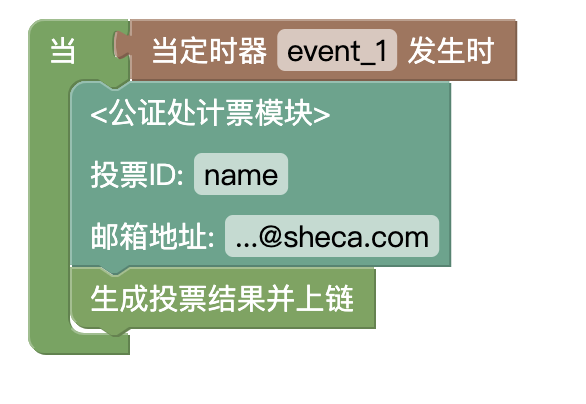
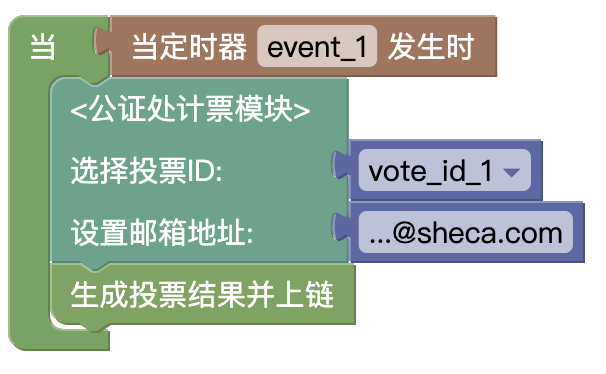
finish

diff --git a/brockly/web/res/invoke.js b/brockly/web/res/invoke.js
@@ -161,12 +161,10 @@ Blockly.Blocks['cal_ticket'] = {
     init: function () {
         this.appendDummyInput()
             .appendField("<公证处计票模块>")
-        this.appendDummyInput()
-            .appendField("投票ID:")
-            .appendField(new Blockly.FieldTextInput('name'), 'vote_participant');
-        this.appendDummyInput()
-            .appendField("邮箱地址:")
-            .appendField(new Blockly.FieldTextInput('...@sheca.com'), 'vote_title');
+        this.appendValueInput("vote_id:")
+            .appendField("选择投票ID: ");
+        this.appendValueInput("email")
+            .appendField('设置邮箱地址:');
         this.setInputsInline(false);
         this.setPreviousStatement(true, null);
         this.setNextStatement(true, null);
@@ -176,6 +174,27 @@ Blockly.Blocks['cal_ticket'] = {
 };
 
 Blockly.JavaScript['cal_ticket'] = function (block) {
+    var code = `//todo`;
+    return code;
+};
+
+Blockly.Blocks['choose_vote_id'] = {
+    init: function () {
+        this.appendDummyInput()
+            .appendField(
+                new Blockly.FieldDropdown([
+                    ['vote_id_1', 'id1'],
+                    ['vote_id_2', 'id2']]),
+                'participant'
+            );
+        this.setOutput(true)
+        // this.setPreviousStatement(true, null);
+        // this.setNextStatement(true, null);
+        this.setColour(230);
+    },
+};
+
+Blockly.JavaScript['choose_vote_id'] = function (block) {
     var code = `//todo`;
     return code;
 };

diff --git a/brockly/web/index.html b/brockly/web/index.html
@@ -41,7 +41,7 @@
 					<p><b>初始化：注册投票 -> 注册定时器 -> 发票 </b></p>
 					<img src="pic/vote_init.png" height="60%"></img>
 					<p><b>计票</b></p>
-					<img src="pic/invoke_cal.png" height="30%"></img>
+					<img src="pic/invoke_cal.png" height="25%"></img>
 					<!--<input type="text" id="packageName" placeholder="Package import path">
 					<button onclick="addPackage()">Add</button>-->
 					<br/>
@@ -93,6 +93,7 @@
 	<category name="投票" colour="345">
 		<block type="vote_block"></block>
 		<block type="vote_id"></block>
+		<block type="choose_vote_id"></block>
 		<block type="vote_register"></block>
 <!--		<block type="upload_file"></block>-->
 <!--		<block type="vote_list"></block>-->

diff --git a/brockly/web/res/index.js b/brockly/web/res/index.js
@@ -859,6 +859,22 @@ Blockly.JavaScript['interface'] = function (block) {
   return [code, Blockly.JavaScript.ORDER_NONE];
 };
 
+Blockly.Blocks['text'] = {
+  init: function () {
+    this.appendDummyInput()
+        .appendField(new Blockly.FieldTextInput(''), 'key');
+    this.setInputsInline(false);
+    this.setOutput(true)
+    this.setColour(230);
+    this.setTooltip('Go interface field');
+    this.setHelpUrl('');
+  },
+};
+
+Blockly.JavaScript['text'] = function (block) {
+  var text_key = block.getFieldValue('key');
+  return text_key;
+};
 
 Blockly.Blocks['field'] = {
   init: function () {
